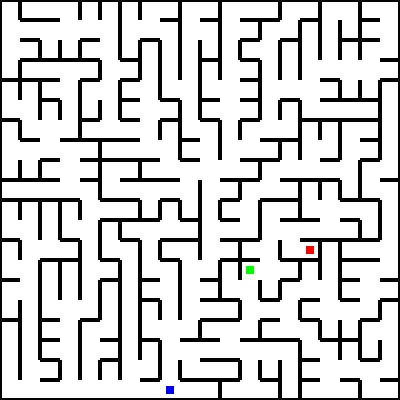
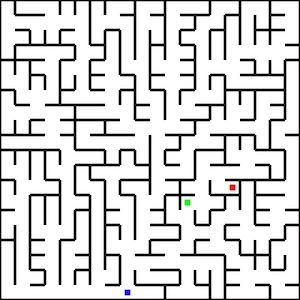
images20

Changed region(s): [[0.0, 0.0, 1.0, 1.0]]

diff --git a/square_maze_solver/solver_2/run_me.py b/square_maze_solver/solver_2/run_me.py
@@ -119,14 +119,14 @@ def colourCell(img,row,column,colourVal):   ## Add required arguments here.
     	return img
 
 ##  Function that accepts some arguments from user and returns the graph of the maze image.
-def buildGraph(img, initial_point, listOfMarkers):  ## You can pass your own arguments in this space.
+def buildGraph(img, margin, listOfMarkers):  ## You can pass your own arguments in this space.
 	graph = {}
     #############  Add your Code here   ###############
 	img = cv2.cvtColor(img, cv2.COLOR_HSV2BGR)
 	img = cv2.cvtColor(img, cv2.COLOR_BGR2GRAY)
     
-	for row in range(initial_point[1], initial_point[0]+1):
-		for col in range(initial_point[1], initial_point[0]+1):
+	for row in range(margin[0], margin[1]+1):
+		for col in range(margin[0], margin[1]+1):
 			point = (row, col)
 	#		print point
 			neigh = findNeighbours(img, row, col)
@@ -281,9 +281,9 @@ def main(filePath, flag = 0):
     listOfMarkers = findMarkers(imgHSV)              ## Acquire the list of markers with their coordinates. 
     test = str(listOfMarkers)
     imgBinary = readImageBinary(filePath)          ## Acquire the binary equivalent of image.
-    initial_point = ((len(imgBinary)/20)-1,0)      ## Bottom Left Corner Cell
-    final_point = (0, (len(imgBinary[0])/20) - 1)  ## Top Right Corner Cell
-    pathArray = findOptimumPath(buildGraph(imgHSV, initial_point, listOfMarkers),initial_point,final_point,listOfMarkers) ## Acquire the list of paths for optimum traversal.
+    initial_point = (0,0)      ## Bottom Left Corner Cell
+    final_point = ((len(imgBinary[0])/20) - 1, (len(imgBinary[0])/20) - 1)  ## Top Right Corner Cell
+    pathArray = findOptimumPath(buildGraph(imgHSV, (initial_point[0], final_point[0]), listOfMarkers),initial_point,final_point,listOfMarkers) ## Acquire the list of paths for optimum traversal.
     print pathArray
     img = colourPath(imgBinary, pathArray)         ## Highlight the whole optimum path in the maze image
     if __name__ == "__main__":                    
@@ -300,6 +300,7 @@ if __name__ == "__main__":
     filePath = sys.argv[1]                        ## Insert filepath of image here
     img = main(filePath)                 
     cv2.imshow("canvas", img)
+    cv2.imwrite("solution2.jpg", img)
     cv2.waitKey(0)
     cv2.destroyAllWindows()
 

diff --git a/square_maze_solver/README.md b/square_maze_solver/README.md
@@ -7,4 +7,5 @@ Solver 1 solves mazes without markers or checkpoints which are supposed to be tr
 
 Whereas Solver 2 solves mazes while traversing all the markers present between the origin and destination path, follwing is an example
 
-!["Square maze"](../images/square_maze3.jpg?raw=true "Square maze")
+!["Square maze"](../images/square_maze4.jpg?raw=true "Square maze")
+!["Square maze"](../images/solution2.jpg?raw=true "Square maze")
